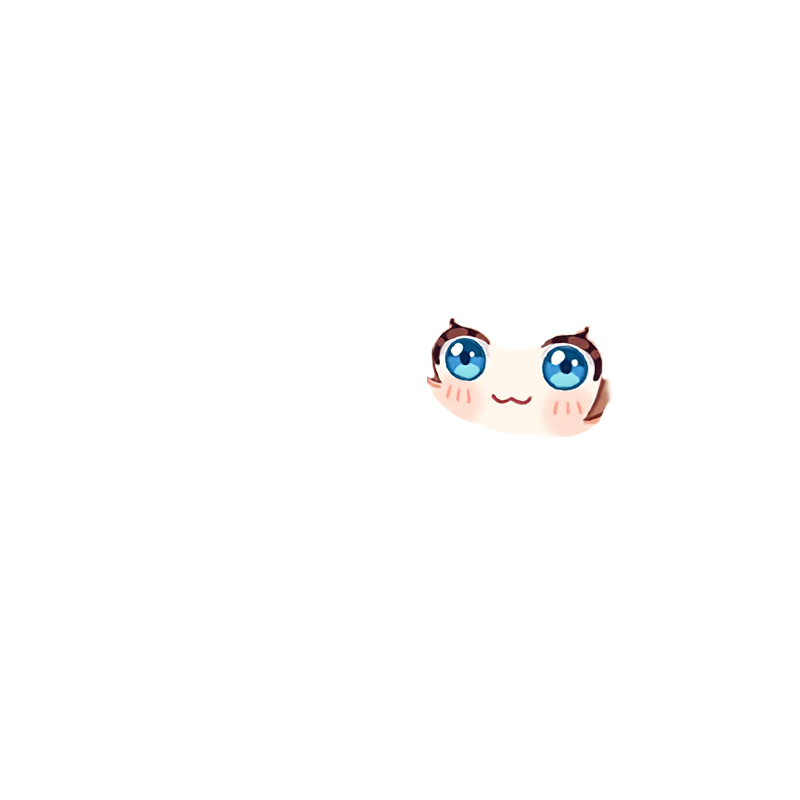
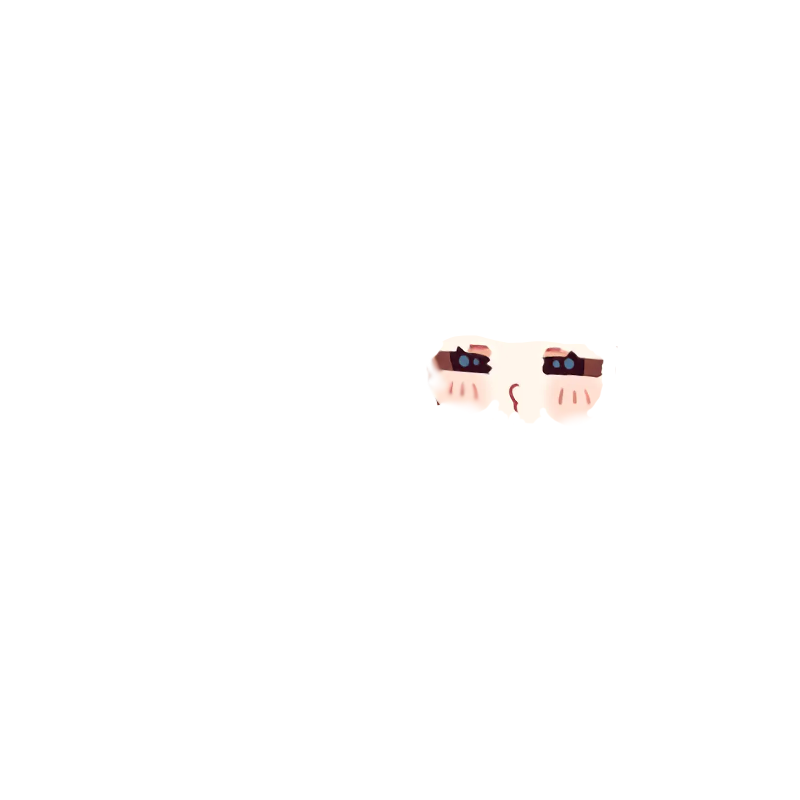
修复表情bug

Changed region(s): [[0.5312, 0.4062, 0.7812, 0.5625]]

diff --git a/main/main.html b/main/main.html
@@ -15,14 +15,12 @@
             bottom: 15%;
             z-index: 999;
         }
-
         .image {
             position: absolute;
             left: 200px;
             z-index: 999;
             pointer-events: none;
         }
-
         .change {
             display: none;
             position: fixed;
@@ -34,59 +32,48 @@
             z-index: 999;
             pointer-events: none;
         }
-
         .mainbody {
             position: absolute;
             z-index: 999;
             pointer-events: none;
         }
-
         .expression {
             position: absolute;
             z-index: 999;
             pointer-events: none;
         }
-
         .face {
             position: absolute;
             z-index: 999;
             pointer-events: none;
         }
-
         .hair {
             position: absolute;
             z-index: 999;
             pointer-events: none;
         }
-
         .talking {
             position: absolute;
             z-index: 999;
             pointer-events: none;
         }
-
         .specialkey1 {
             position: absolute;
             z-index: 999;
             pointer-events: none;
             display: none;
-
         }
-
         .specialkey2 {
             position: absolute;
             z-index: 999;
             pointer-events: none;
             display: none;
-
         }
-
         .specialkey3 {
             position: absolute;
             z-index: 999;
             pointer-events: none;
             display: none;
-
         }
     </style>
 </head>
@@ -97,18 +84,17 @@
     <div class="initial">
         <img class="mainbody" src="./model/Main/Diana_Initial.png" width="350px" height="350px">
         <img class="face" src="./model/Other/Diana_Face.png" width="350px" height="350px">
-        <img class="expression" src="./model/Expression/3.png" width="350px" height="350px">
+        <img class="expression" src="./model/Expression/openEye.png" width="350px" height="350px">
         <img class="hair" src="./model/Other/Diana_FrontHair.png" width="350px" height="350px">
         <img class="specialkey1" src="./model/Main/Diana_Shift.png" width="350px" height="350px">
-
         <img class="specialkey3" src="./model/Main/Diana_Ctrl.png" width="350px" height="350px">
         <img class="talking" src="./model/Chat/missU.png" width="350px" height="350px">
     </div>
 
     <script>
         var j = 0;
-        var talking = document.querySelector('.talking');
         var talk = document.querySelector('.initial');
+        var talking = document.querySelector('.talking');
         var expression = document.querySelector('.expression')
 
         // 移动位置
@@ -119,7 +105,6 @@
             var dy = event.clientY - odiv.offsetTop;
             console.log(event);
             console.log(dy)
-
             document.onmousemove = function (ev) {
                 var event = window.event || ev;
                 odiv.style.left = event.clientX - dx + 'px';
@@ -128,61 +113,78 @@
             document.onmouseup = function () {
                 document.onmousemove = null;
                 document.onmouseup = null;
-
             }
         }
         // 鼠标点击触发
         talk.onclick = function () {
             talking.style.display = 'block';
-            talking.src = "./model/Chat/together.png"
-            expression.src = "./model/Expression/Mua.png"
+            talking.src = "./model/Chat/together.png";
+            expression.src = "./model/Expression/3.png";
+            setTimeout(function(){
+                talking.style.display = 'none';
+            }, 3100);
         }
         // 鼠标移动触发
         talk.addEventListener('mouseenter', function () {
             talking.style.display = 'block';
             talking.src = "./model/Chat/coding.png";
-            expression.src = "./model/Expression/starEye.png"
+            expression.src = "./model/Expression/starEye.png";
+            setTimeout(function(){
+                talking.style.display = 'none';
+            }, 2300);
         })
 
-        //表情切换
+        setTimeout(() => {//删除初始文本问候
+            talking.style.display = 'none';
+        }, 3300);
+
+        //眨眼
         var fader = setInterval(function () {
+            expression.src = "./model/Expression/closeEye.png";
+            setTimeout(function () {
+                expression.src = "./model/Expression/openEye.png";
+            },321);
+        },5678);
+
+        //表情切换
+        var fader1 = setInterval(function () {
             j++;
             expression.src = "./model/Expression/" + j + ".png";
             if (j == 4)
                 j = 1;
-        }, 3000);
+        }, 91000);
 
         //喝水提醒
         var fader2 = setInterval(function () {
             talking.style.display = 'block';
             talking.src = "./model/Chat/drink.png";
-
-        }, 5400000);
+            setTimeout(function(){
+                talking.style.display = 'none';
+            }, 5000);
+        }, 540000);
 
         //站立提醒
         var fader3 = setInterval(function () {
             talking.style.display = 'block';
             talking.src = "./model/Chat/stand.png";
-
+            setTimeout(function(){
+                talking.style.display = 'none';
+            }, 5000);
         }, 360000);
 
         //休息提醒
-        var fader3 = setInterval(function () {
+        var fader4 = setInterval(function () {
             talking.style.display = 'block';
             talking.src = "./model/Chat/rest.png";
-
+            setTimeout(function(){
+                talking.style.display = 'none';
+            }, 5000);
         }, 720000);
-
-        //清除对话框
-        var fader4 = setInterval(function () {
-            talking.style.display = 'none';
-        }, 3000);
 
         var image = document.querySelector('.mainbody');
 
         document.addEventListener('keyup', function (up) {
             image.src = "./model/Main/Diana_Initial.png";
-
             if (up.key == "Shift") {
                 specialkey1.style.display = "none";
             }
@@ -254,15 +256,11 @@
                         image.src = './model/Main/Diana_' + i + '.png';
                 }
             }
-
             if (e.key == "Shift") {
                 specialkey1.style.display = "block";
-
             }
             if (e.key == "Control") {
-
                 specialkey3.style.display = "block";
-
             }
         })
     </script>
